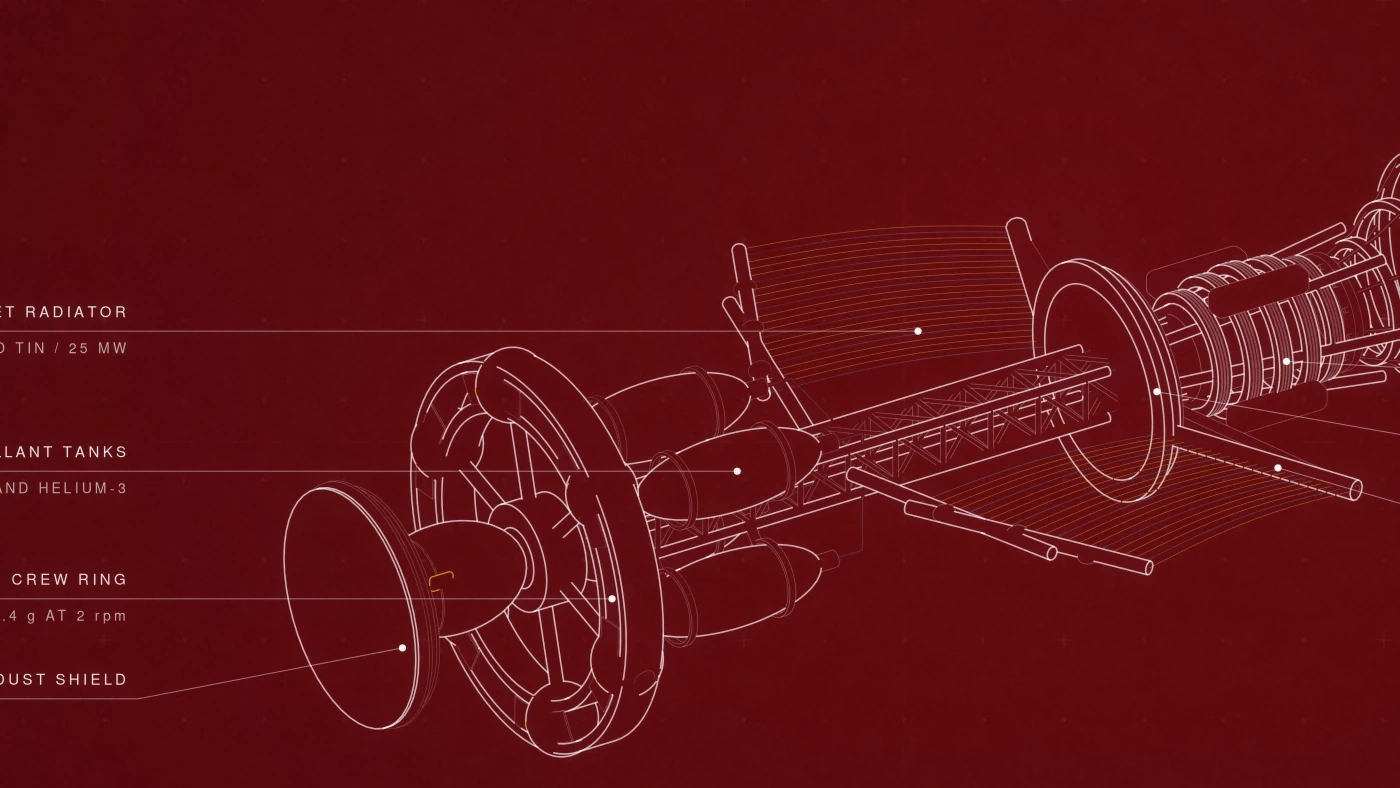
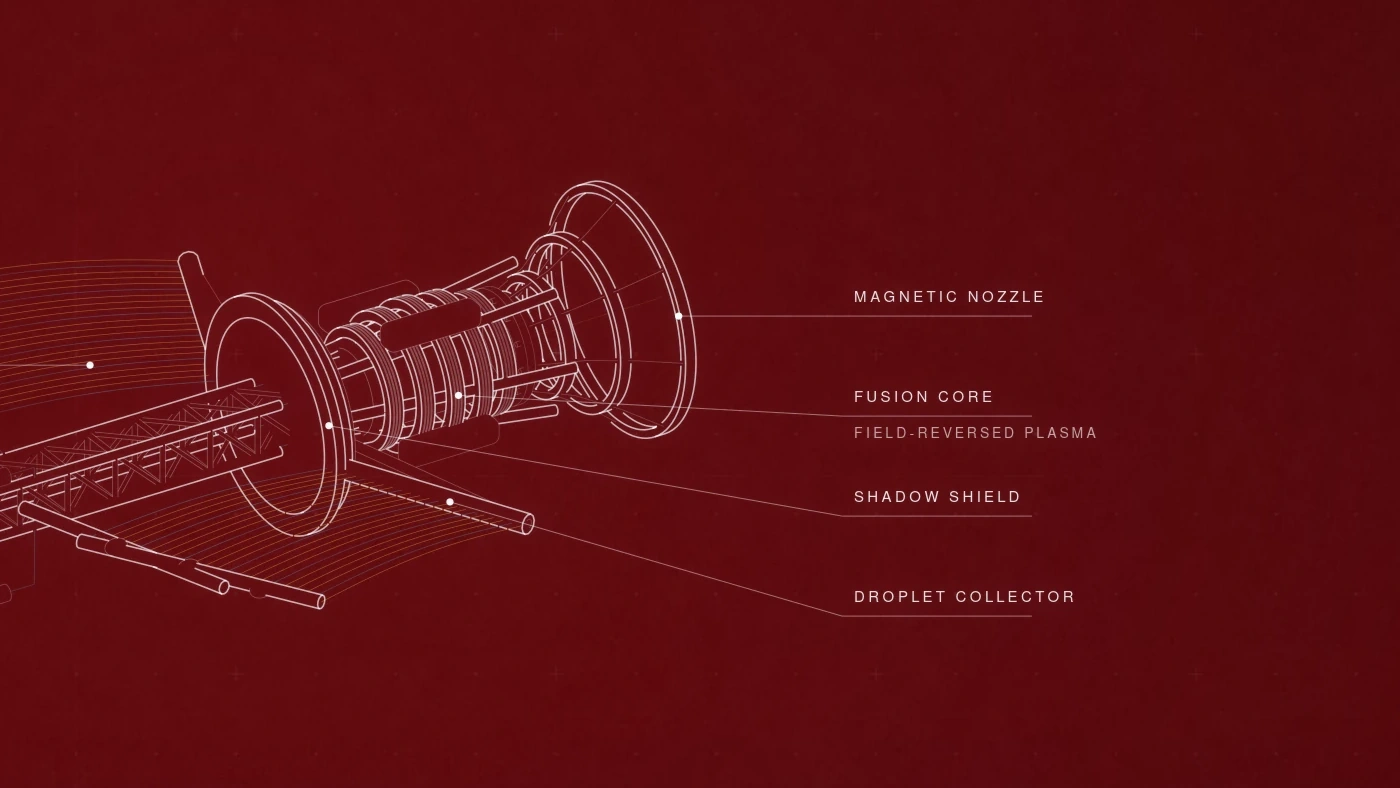
p(bloom) draft: read more warmly (three reviews: rhythm, voice, a fresh reader): wishes before features, the app before its megabytes, one ending instead of three, betting on bloom where it answers something; the resolution slider shows the same part in both images, the nozzle and its labels
Claude-Session: https://claude.ai/code/session_01MgACV8Xkkc1tXD2fXTE1R9

diff --git a/scripts/pbloom_assets.py b/scripts/pbloom_assets.py
@@ -3,8 +3,8 @@
 
     python3 scripts/pbloom_assets.py /path/to/omarchy-p-bloom-theme
 
-- cmp-res-native / cmp-res-stretched: the same part of Fusion Transport on a 5K 16:9 screen, from the native 5K file and
-  from the 1080p file stretched to 5K (1400 x 788, 1:1 screen pixels)
+- cmp-res-native / cmp-res-stretched: the same part of Fusion Transport (the nozzle and its labels) on a 5K 16:9 screen,
+  from the native 5K file and from the 1080p file stretched to 5K (1400 x 788, 1:1 screen pixels)
 - cmp-comp-cropped / cmp-comp-composed: a 21:9 5K screen, the 16:9 file cropped to fill it vs the 21:9 composition
 - caption-tether-climber: Tether Climber's legend from the 5K 16:9 file, with a margin
 """
@@ -22,9 +22,12 @@ fusion = '03-fusion-transport.webp'
 
 native = Image.open(theme/'backgrounds'/fusion).convert('RGB')                     # 16:9, 5120 x 2880
 small = Image.open(rel/'16x9-1080p'/fusion).convert('RGB').resize(native.size, Image.BICUBIC)
-box = (1496, 760, 1496+1400, 760+788)
-native.crop(box).save(out/'cmp-res-native.webp', quality=94, method=6)
-small.crop(box).save(out/'cmp-res-stretched.webp', quality=94, method=6)
+# the same part in both: the nozzle and its labels (Magnetic nozzle to Droplet collector). The 1080p sheet is composed
+# for its own screen, so that part sits elsewhere and a little larger; each crop is centred on it, 1:1 on the 5K screen
+def around(cx, cy):
+    return (cx - 700, cy - 394, cx + 700, cy + 394)
+native.crop(around(3024, 1120)).save(out/'cmp-res-native.webp', quality=94, method=6)
+small.crop(around(4288, 1200)).save(out/'cmp-res-stretched.webp', quality=94, method=6)
 
 wide = Image.open(rel/'64x27-2160p'/fusion).convert('RGB')                          # 21:9, 5120 x 2160
 for name, im in (('cmp-comp-cropped', native.crop((0, 360, 5120, 2520))), ('cmp-comp-composed', wide)):

diff --git a/site/src/content/blog/omarchy-p-bloom-theme.md b/site/src/content/blog/omarchy-p-bloom-theme.md
@@ -14,8 +14,8 @@ draft: true
 p(bloom) is a theme for [Omarchy](https://omarchy.org) with 42 wallpapers of
 machines from a future worth building. The look is inspired by Bungie's Destiny. I've always
 loved its vision of future technology: machines that harness the Light. I
-wanted my desktop to feel like that, and to be full of inventions I would
-love to see come true.
+wanted my desktop to feel like that, full of inventions I'd love to see come
+true. I'm betting on bloom.
 
 Making it was pure joy. Every finished piece showed me three new things to
 try, and the horizon only kept getting wider.
@@ -24,11 +24,8 @@ I made the song for the music video in Suno, and I haven't had this much fun
 in a long time. It feels like imagining straight into music: I can steer the
 song however I want, from the broad strokes down to the smallest details.
 Forty-six versions fell by the wayside, and I wrote about forty-five notes
-along the way.
-The song comes in two versions, electronic and rock, because I grew up on
+along the way. Two made it, one electronic and one rock, because I grew up on
 rock and metal as much as on electronic music, and I still love both.
-
-I'm betting on bloom.
 
 **Install it.** One line in a terminal:
 
@@ -36,8 +33,8 @@ I'm betting on bloom.
 omarchy theme install https://github.com/ncr/omarchy-p-bloom-theme.git
 ```
 
-The companion app, p(bloom) Wallpapers, is a browser for the wallpapers. It
-also downloads the set made for your screens. Install it once:
+The companion app, p(bloom) Wallpapers, lets you browse them all and downloads
+the set made for your screens. Install it once:
 
 ```bash
 python3 ~/.config/omarchy/themes/p-bloom/companion/install.py
@@ -46,35 +43,34 @@ python3 ~/.config/omarchy/themes/p-bloom/companion/install.py
 ## What's inside
 
 **42 blueprint wallpapers.** Every machine is a 3D model, drawn as a
-blueprint with notes and diagrams. The wallpapers are full of detail, yet
-they stay quiet behind your windows, and when you have a minute you can
-wander around one and find something new. Each sheet also lists what still
-has to be invented before the machine can be built.
+blueprint with notes and diagrams. They are full of detail but stay quiet
+behind your windows, and when you have a minute, you can wander around one and
+find something new. Each sheet also lists what still has to be invented before
+the machine can be built: a to-do list for the future.
 
 <figure class="inside-figure">
 <img src="/draft-assets/destiny/caption-tether-climber.webp?v=2" alt="The legend of Tether Climber, a space elevator cargo car: it climbs a ribbon from an ocean platform to geostationary orbit on beamed laser power; it needs materials science, photonics, photovoltaics and orbit control; projected first service 2075." width="1137" height="580" loading="lazy" />
 <figcaption>Tether Climber, a space elevator car: what it needs, and when it might first run.</figcaption>
 </figure>
 
-**The theme.** Deep-space navy, ice-white text and nine named colours for
-everything Omarchy themes.
+**The theme.** Everything Omarchy can theme gets deep-space navy, ice-white
+text and nine colours named for moods.
 
 <div class="destiny-palette" aria-label="The p(bloom) palette">
 <span style="--swatch:#4cc9ff">Signal<small>#4cc9ff</small></span><span style="--swatch:#b97aff">Bloom<small>#b97aff</small></span><span style="--swatch:#ff8a3d">Sunrise<small>#ff8a3d</small></span><span style="--swatch:#f5c945">Pollen<small>#f5c945</small></span><span style="--swatch:#3ddc97">Sprout<small>#3ddc97</small></span><span style="--swatch:#4fe3d0">Lagoon<small>#4fe3d0</small></span><span style="--swatch:#ff5468">Flare<small>#ff5468</small></span><span style="--swatch:#5b8dff">Horizon<small>#5b8dff</small></span><span style="--swatch:#c19a5b">Brass<small>#c19a5b</small></span>
 </div>
 
 **Made for your screen.** Each wallpaper is composed again for every common
-screen, from 1080p to 7680 × 2160. A higher resolution gets finer lines and
-captions instead of a stretched picture. A different shape gets its own
-layout: on a 21:9 ultrawide, a 16:9 picture would lose its top and bottom,
-and with them the title and the notes. Here the machine, the notes and the
-caption are arranged again for that screen, so nothing is cut off.
+screen, from 1080p to 7680 × 2160. A sharper screen gets finer lines and
+captions, not a stretched picture. A different shape gets its own layout: on a
+21:9 ultrawide, a cropped 16:9 picture would lose the title and the notes, so
+everything is arranged again to fit.
 
 <figure class="compare-figure">
 <p class="compare-title"><strong>Resolution</strong></p>
 <div class="compare" style="--pos:50%;aspect-ratio:1400/788">
-<img class="compare-after" src="/draft-assets/destiny/cmp-res-native.webp?v=2" alt="The same area from the native 5K image: every line and caption is sharp." width="1400" height="788" loading="lazy" />
-<img class="compare-before" src="/draft-assets/destiny/cmp-res-stretched.webp?v=2" alt="Fusion Transport on a 5K screen from a 1080p image stretched to fit: lines and captions are soft and faint." width="1400" height="788" loading="lazy" />
+<img class="compare-after" src="/draft-assets/destiny/cmp-res-native.webp?v=3" alt="The same area from the native 5K image: every line and caption is sharp." width="1400" height="788" loading="lazy" />
+<img class="compare-before" src="/draft-assets/destiny/cmp-res-stretched.webp?v=3" alt="Fusion Transport on a 5K screen from a 1080p image stretched to fit: lines and captions are soft and faint." width="1400" height="788" loading="lazy" />
 <span class="compare-label compare-label-left">1080p image, stretched</span><span class="compare-label compare-label-right">Native 5K</span>
 <span class="compare-handle" aria-hidden="true"></span>
 <input class="compare-range" type="range" min="0" max="100" value="50" step="0.5" aria-label="Move the divider: 1080p image, stretched on the left, Native 5K on the right" />
@@ -94,14 +90,13 @@ caption are arranged again for that screen, so nothing is cut off.
 <figcaption>A 21:9 ultrawide screen. Drag the line.</figcaption>
 </figure>
 
-**p(bloom) Wallpapers.** The theme includes one set, 16:9 at 5K, about
-26 MB. With 18 screen shapes and sizes in three strengths, all the sets
-together would take about 690 MB on your disk, so the rest live in GitHub
-Releases. The companion app picks the set that fits your monitors, downloads
-only that one, and switches when you plug in another screen. It is also a
-gallery, drawn like the sheets: ← → browse, ↑ ↓ show the same wallpaper in
-another strength, Enter puts it on your desktop. S downloads all three
-strengths of your set at once.
+**p(bloom) Wallpapers.** The companion app is a gallery drawn like the sheets:
+← → browse, ↑ ↓ show the same wallpaper in another strength, Enter puts it on
+your desktop. In the background it picks the set that fits your monitors,
+downloads only that one, and switches when you plug in another screen. The
+theme carries one set, 16:9 at 5K, about 26 MB. All 18 screen shapes and sizes
+in three strengths would take about 690 MB, so the rest live in GitHub
+Releases; the app's settings (S) fetch all three strengths of your set at once.
 
 <figure class="compare-figure">
 <p class="compare-title"><strong>Strength</strong></p>
@@ -115,10 +110,10 @@ strengths of your set at once.
 <figcaption>Reef Nursery in the gallery, ↑ and ↓. Drag the line.</figcaption>
 </figure>
 
-**Room for a see-through bar.** The top edge of every wallpaper is plain
-paper, with no lines or labels. Double-click Omarchy's bar to make it
-transparent and it stays perfectly readable. I always wanted to use that
-setting, but on most wallpapers the details behind the bar made it useless.
+**Room for a see-through bar.** I always wanted to use Omarchy's see-through
+bar, but on most wallpapers the details behind it made it useless. So the top
+edge of every wallpaper is plain paper, with no lines or labels. Double-click
+the bar and it stays perfectly readable.
 
 <figure class="compare-figure wide">
 <div class="compare compare-bottom" style="--pos:50%;aspect-ratio:1060/200">
@@ -133,17 +128,16 @@ setting, but on most wallpapers the details behind the bar made it useless.
 
 **Next: a wallpaper for each screen.** Omarchy shows one wallpaper on all
 screens, so a laptop next to an ultrawide gets one picture for two shapes
-and two resolutions. The sets for both already exist. What's missing is a
-wallpaper per screen, each in its own resolution, and I'd like to send that
-to Omarchy as a pull request.
+and two resolutions. The sets for both already exist; Omarchy only needs to
+show each screen its own. I'd like to send that to Omarchy as a pull request.
 
 ## Pencils down
 
 Who made p(bloom), me or the AI? I didn't draw a single line, write any code
 or play a note. Agents did all of that, and they did it well.
 
-But making something is more than producing it. It is deciding what it should
-be. Nobody asks whether the camera made the film; the director decides what
+But making something is more than producing it: it is deciding what it should
+be. Nobody asks whether the camera made the film; the director chooses what
 ends up on screen. Here I made about 460 of those decisions:
 
 - **Wallpapers:** 149 machines drafted, 42 kept, about 125 decisions.
@@ -154,17 +148,15 @@ ends up on screen. Here I made about 460 of those decisions:
 Each one is a note I wrote down: “too static”, “that's not how I write”,
 “this dome could never close”.
 
-This is where taste comes in. Agents can make almost anything, and fast.
+Agents can make almost anything, and fast.
 Deciding what is worth keeping, and what is still wrong, stays my job. Taste
 isn't knowing what's beautiful. It's noticing, for the 460th time, that
 something isn't yet.
 
-Not everything needs 460 decisions. A one-shot, one prompt shared as it came
-out, is less mine, but it still counts: someone sees it, tries it, takes it
-further. Sprouts like that are how most things start. Some of them grow into a
+Not everything needs 460 decisions. A one-shot, a single prompt shared as it
+came out, is less mine, but it still counts: someone sees it, tries it and
+takes it further. Sprouts like that are how most things start. Some of them grow into a
 tree in bloom, with a flower for most decisions.
-
-So yes, I made it, the way a director makes a film.
 
 <p class="closer">Every line was drawn by an agent.<br />Every decision was <em>mine.</em></p>
 
